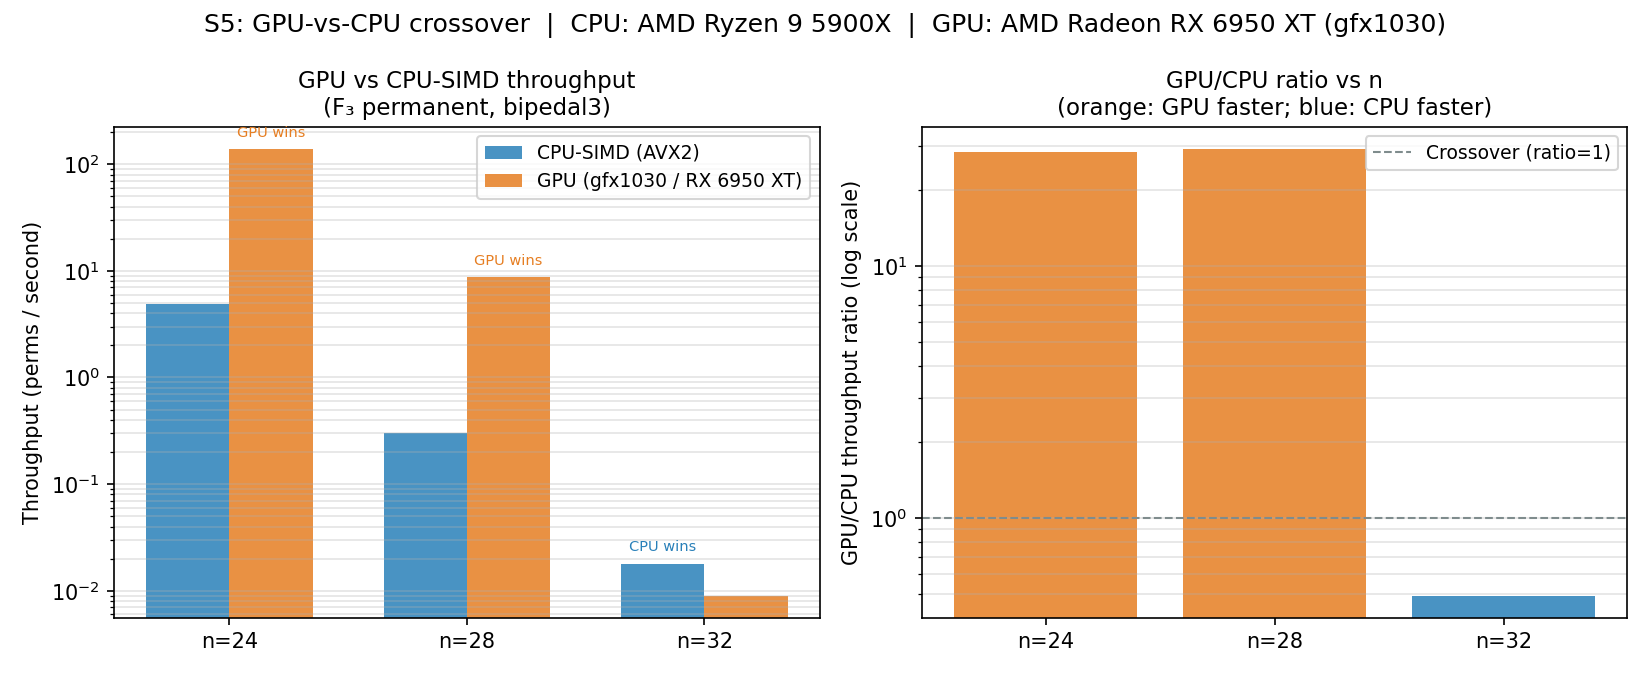
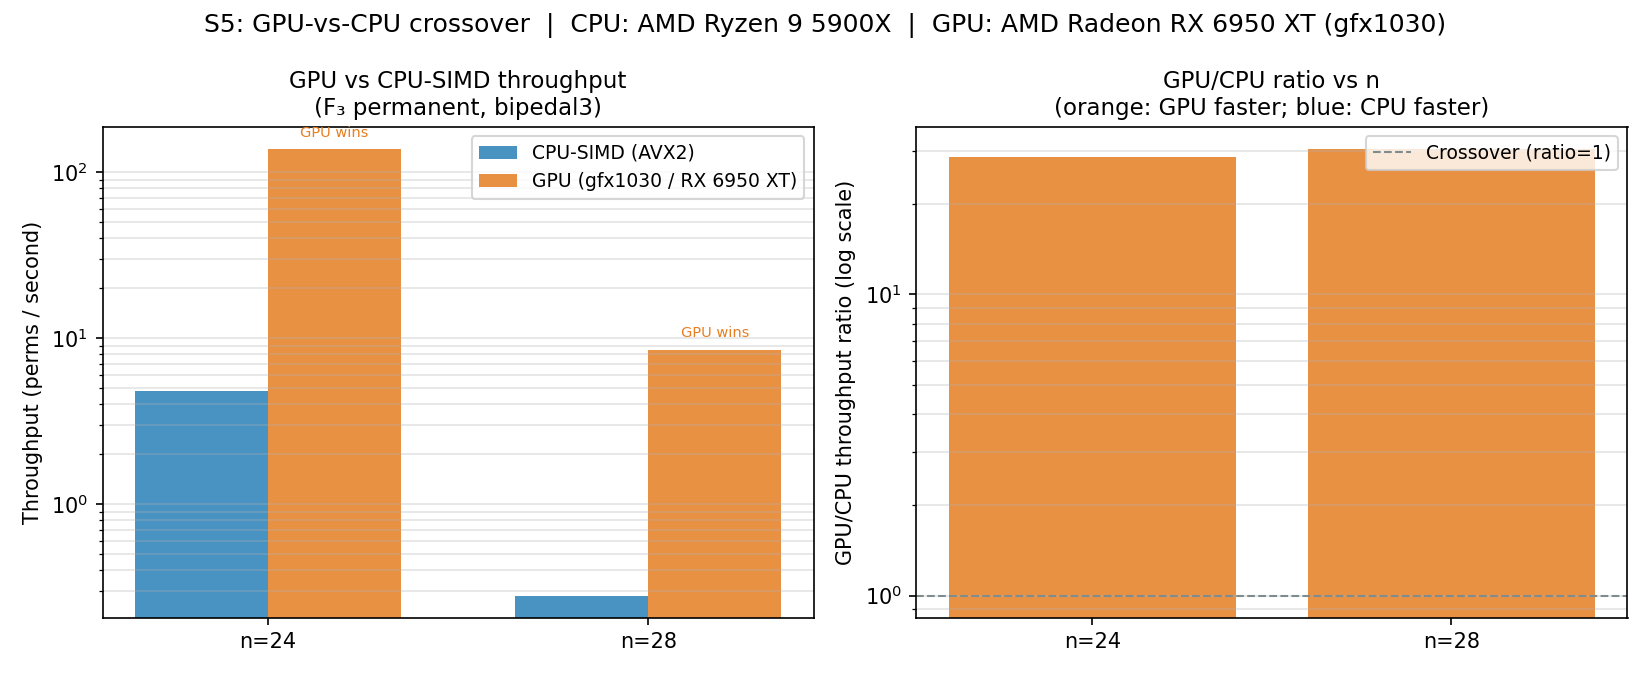
fix(jit:424aa94f): no-partial-figure guards + parallel overlay in figure (a)
Reviewer findings on 424aa94f:
  1. plot_cross_cpu silently saved an empty figure when impl-name
     classifiers (scalar/avx2/sanity) returned None. Now raises
     ValueError with the resolved data keys.
  2. _resolve_csv silently substituted a different dated CSV when
     the exact name was missing. Now logs the substitution to
     stderr (still raises FileNotFoundError on no-candidates).
  3. plot_speedup did not cover the "parallel" path required by
     epic criterion. Now overlays the S2 max-thread (12-thread)
     wall-clock curve on figure (a) so reference + SIMD +
     parallel are all visible in one log-time vs n plot.
  4. all-mode now pre-flights every required CSV before writing
     any figure, preventing partial figure-set on later-input
     failures.

Determinism check: two consecutive all-mode runs produce
byte-identical PNGs after the fix.

diff --git a/scripts/plot_permanent_benchmarks.py b/scripts/plot_permanent_benchmarks.py
@@ -52,16 +52,23 @@ def _resolve_csv(input_dir: Path, filename: str) -> Path:
     """Return the absolute path to *filename* under *input_dir*.
 
     Raises FileNotFoundError with the absolute path if the file is missing.
+    If the exact dated filename is absent but a date-suffix glob match exists,
+    log the substitution to stderr so the audit trail records which file was
+    actually consumed.
     """
-    # Try exact name first, then glob for name-stem (ignoring date suffix).
     path = input_dir / filename
     if path.exists():
         return path
-    # Fallback: find any file whose name starts with the stem before the date.
     stem = filename.split("-")[0]  # e.g. "s1_speedup"
     candidates = sorted(input_dir.glob(f"{stem}-*.csv"))
     if candidates:
-        return candidates[-1]  # most recent date suffix wins
+        substitute = candidates[-1]  # most recent date suffix wins
+        print(
+            f"  [warn] {filename!r} not found in {input_dir}; "
+            f"using {substitute.name!r} instead (most recent match)",
+            file=sys.stderr,
+        )
+        return substitute
     raise FileNotFoundError(f"missing input CSV: {path.resolve()}")
 
 
@@ -105,7 +112,21 @@ def _apply_style() -> None:
 S1_FILENAME = "s1_speedup-2026-05-11.csv"
 
 def plot_speedup(input_dir: Path, output_dir: Path) -> Path:
-    """Fig (a): wall-clock time (log scale) vs n for reference vs bipedal3-SIMD."""
+    """Fig (a): wall-clock time (log scale) vs n for the F_3 permanent paths.
+
+    Overlays:
+      - permanent_mod3_reference (S1)
+      - permanent_bipedal3_simd (S1; AVX2)
+      - permanent_bipedal3_parallel (S2; 12-thread, the dev host's full physical-core
+        count). The S2 CSV's thread sweep at each n is restricted to max-thread rows
+        for this overlay so the curve directly reads as wall-clock vs n at the parallel
+        path's best configuration.
+
+    The scalar bipedal3 fallback path is exercised at unit-test time
+    (`test_simd_vs_scalar_n24` and friends) but is not separately benchmarked in S1,
+    because the production dispatch path always selects AVX2 on the dev host. If a
+    scalar-only S1 column appears in future, the auto-style branch picks it up.
+    """
     csv_path = _resolve_csv(input_dir, S1_FILENAME)
     rows = _read_csv(csv_path)
 
@@ -125,6 +146,29 @@ def plot_speedup(input_dir: Path, output_dir: Path) -> Path:
         paired = sorted(zip(ns, ts))
         data[impl] = ([p[0] for p in paired], [p[1] for p in paired])
 
+    # Overlay S2 max-thread parallel data if present.
+    parallel_ns: list[int] = []
+    parallel_ts: list[float] = []
+    try:
+        s2_path = _resolve_csv(input_dir, S2_FILENAME)
+        s2_rows = _read_csv(s2_path)
+        # Group by n, pick the max-thread row per n.
+        per_n: dict[int, tuple[int, float]] = {}
+        for row in s2_rows:
+            n = int(row["n"])
+            t = int(row["threads"])
+            mean_s = float(row["mean_us"]) / 1e6
+            prev = per_n.get(n)
+            if prev is None or t > prev[0]:
+                per_n[n] = (t, mean_s)
+        for n in sorted(per_n.keys()):
+            parallel_ns.append(n)
+            parallel_ts.append(per_n[n][1])
+    except FileNotFoundError:
+        # S2 absent: emit a clear info line; the figure still renders reference + SIMD.
+        print("  [info] S2 CSV missing; parallel curve omitted from figure (a)",
+              file=sys.stderr)
+
     _apply_style()
     fig, ax = plt.subplots()
 
@@ -143,6 +187,10 @@ def plot_speedup(input_dir: Path, output_dir: Path) -> Path:
             auto_idx += 1
             kw = dict(color=c, marker="^", linestyle="--", label=impl.replace("_", " "))
         ax.semilogy(ns, ts, **kw)
+
+    if parallel_ns:
+        ax.semilogy(parallel_ns, parallel_ts, color="#27ae60", marker="D",
+                    linestyle="-.", label="Bipedal3-parallel (12-thread)")
 
     ax.set_xlabel("Matrix dimension n")
     ax.set_ylabel("Wall-clock time (seconds, log scale)")
@@ -267,6 +315,16 @@ def plot_cross_cpu(input_dir: Path, output_dir: Path) -> Path:
 
     # Common n values across scalar and avx2 (for sanity-check at n=16/20/24)
     sanity_impl = next((k for k in data if "sanity" in k), None)
+
+    # Guard: refuse to silently save an empty figure if the impl classifiers
+    # didn't recognise the CSV's impl names. The substring heuristics depend on
+    # the S3 CSV's column naming convention; if it changes upstream we want a
+    # clear error rather than an empty bar chart.
+    if not scalar_impl or not (sanity_impl or avx2_impl):
+        raise ValueError(
+            f"S3 CSV at {csv_path} did not yield recognisable 'scalar' and "
+            f"'avx2' impl names; found: {sorted(data.keys())}"
+        )
 
     # Choose n values: prefer sanity-check rows (n=16,20,24) since those have both scalar+avx2.
     # Also include the large-n avx2-only rows for context, displayed separately.
@@ -485,6 +543,30 @@ def main() -> None:
         targets = list(SUBCOMMANDS.keys())
     else:
         targets = [args.subcommand]
+
+    # Pre-flight: in `all` mode, verify every target's input CSV resolves
+    # BEFORE we write any figure. This prevents the "partial figure set"
+    # failure mode where S1/S2/S3 succeed and we crash on S5's missing input,
+    # leaving an inconsistent figures/ directory on disk.
+    csv_for_target = {
+        "speedup":       S1_FILENAME,
+        "parallel":      S2_FILENAME,
+        "cross_cpu":     S3_FILENAME,
+        "gpu_crossover": S5_FILENAME,
+    }
+    if args.subcommand == "all":
+        missing = []
+        for name in targets:
+            try:
+                _resolve_csv(input_dir, csv_for_target[name])
+            except FileNotFoundError as exc:
+                missing.append(str(exc))
+        if missing:
+            raise FileNotFoundError(
+                "all-mode pre-flight: refusing to write any figure because "
+                "one or more required input CSVs are missing:\n  - "
+                + "\n  - ".join(missing)
+            )
 
     print(f"Input:  {input_dir}")
     print(f"Output: {output_dir}")
